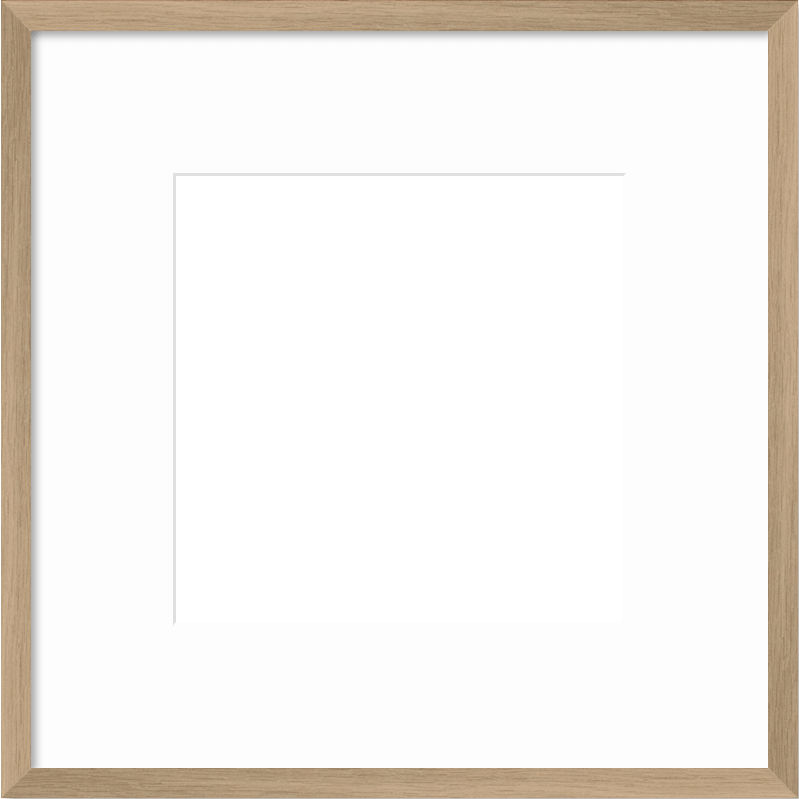
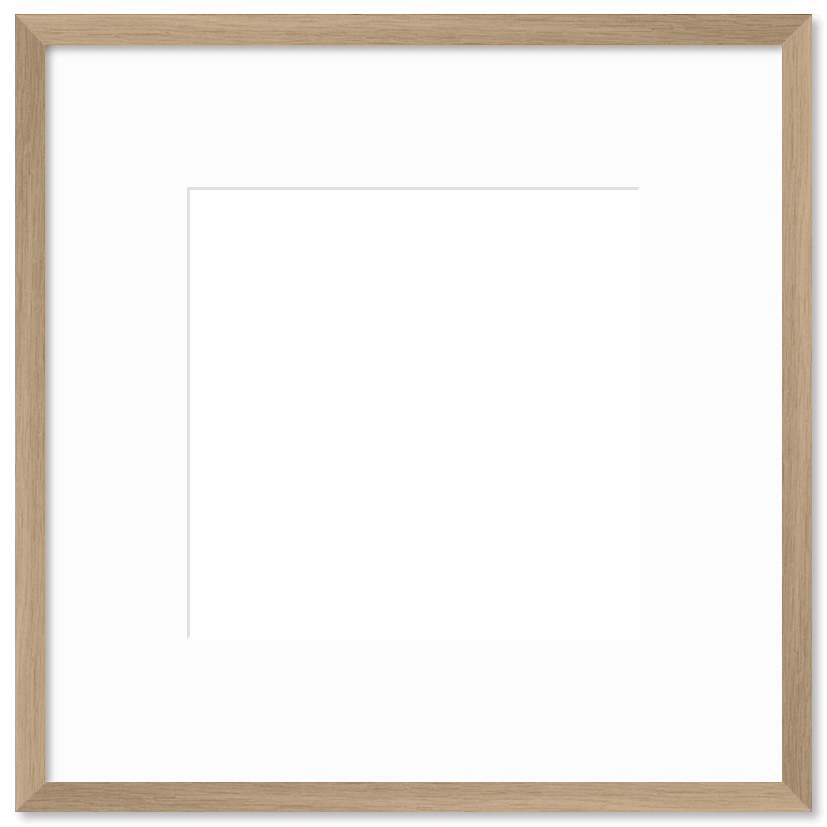
Update PackReview frame UI/image

Changed region(s): [[0.0, 0.0, 1.0, 1.0], [0.2103, 0.2103, 0.781, 0.781]]

diff --git a/src/screens/private/PackReview/PackReview.styles.js b/src/screens/private/PackReview/PackReview.styles.js
@@ -1,6 +1,6 @@
 import { Platform } from 'react-native'
 
-import { blackTertiary, greyBg } from 'styles/colours'
+import { greyBg } from 'styles/colours'
 import {
   SQUARE_REVIEW_FRAME_DIMENSION,
   SQUARE_REVIEW_FRAME_MARGIN,
@@ -20,27 +20,16 @@ export default {
   frame: {
     width: SQUARE_REVIEW_FRAME_DIMENSION,
     height: SQUARE_REVIEW_FRAME_DIMENSION,
-    zIndex: 2,
-    shadowColor: blackTertiary,
-    shadowOffset: { width: 0, height: 0 },
-    shadowOpacity: 0.8,
-    shadowRadius: 2,
+    ...Platform.select({
+      ios: {
+        zIndex: 2,
+      },
+    }),
   },
   frameContainer: {
     flex: 0,
     margin: SQUARE_REVIEW_FRAME_MARGIN,
     backgroundColor: greyBg,
-    ...Platform.select({
-      ios: {
-        shadowColor: blackTertiary,
-        shadowOffset: { width: 0, height: 2 },
-        shadowOpacity: 0.8,
-        shadowRadius: 2,
-      },
-      android: {
-        elevation: 4,
-      },
-    }),
   },
   print: {
     width: SQUARE_REVIEW_PRINT_DIMENSION,
@@ -51,9 +40,6 @@ export default {
     ...Platform.select({
       ios: {
         zIndex: 1,
-      },
-      android: {
-        elevation: 5,
       },
     }),
     position: 'absolute',

diff --git a/src/screens/private/PackReview/constants.js b/src/screens/private/PackReview/constants.js
@@ -4,7 +4,9 @@ import { Dimensions } from 'react-native'
 export const SQUARE_REVIEW_FRAME_MARGIN = 50
 export const SQUARE_REVIEW_FRAME_DIMENSION = (Dimensions.get('window').width - (SQUARE_REVIEW_FRAME_MARGIN * 2))
 
+// This number is the distance from the edge of image to the edge
+// of print (times two), divided by the total width of the image
 export const SQUARE_REVIEW_PRINT_MARGIN = (SQUARE_REVIEW_FRAME_MARGIN) +
-  (((SQUARE_REVIEW_FRAME_DIMENSION) * 0.43554443053) / 2)
+  (((SQUARE_REVIEW_FRAME_DIMENSION) * 0.46191051995) / 2)
 export const SQUARE_REVIEW_PRINT_DIMENSION =
-  (SQUARE_REVIEW_FRAME_DIMENSION) * 0.56445556947
+  (SQUARE_REVIEW_FRAME_DIMENSION) * 0.53808948005
